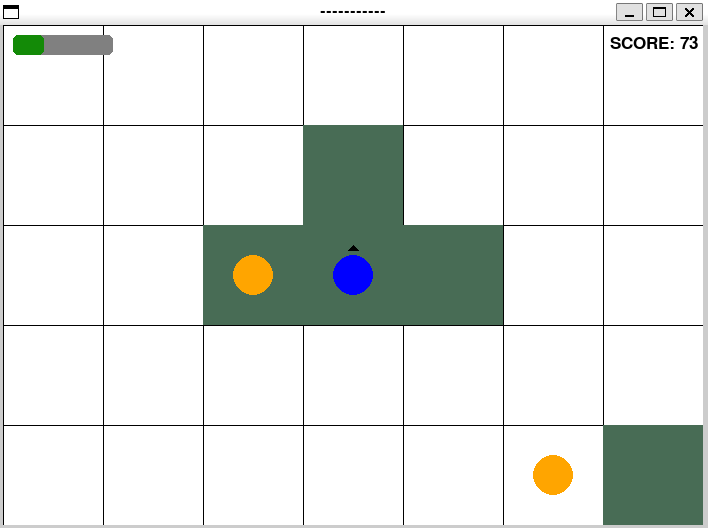
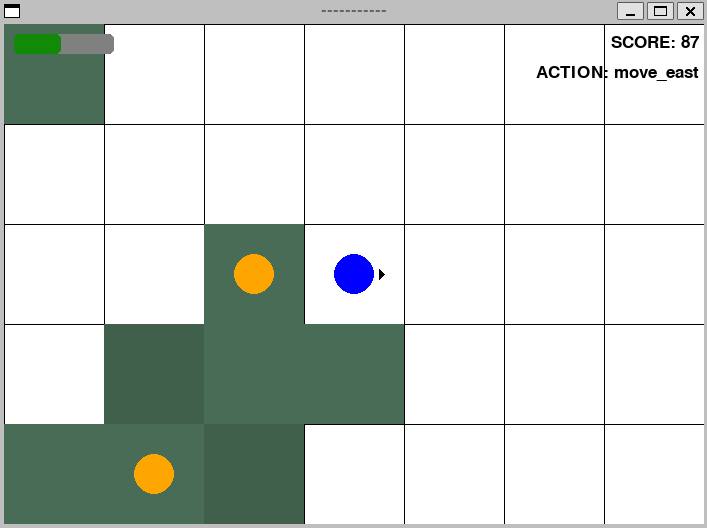
interface updates

diff --git a/code/visualisation.py b/code/visualisation.py
@@ -94,7 +94,7 @@ def draw_shadow(action, cells, players ):
 
     
 
-def draw_players(cells, players ):
+def draw_players(cells, players, action ):
     #draw circle in the middle of the cell
     # for i in range(len(env)):
     #     player = env[i]
@@ -152,6 +152,7 @@ def draw_players(cells, players ):
     p_xp = players[0][3]
     draw_life(p_life)
     draw_score(p_xp)
+    draw_action(action)
 
 
                  
@@ -168,11 +169,27 @@ def draw_life(life):
     pass
 
 def draw_score(score):
-
     socre_text = SCORE_FONT.render(
         "SCORE: " + str(score), 1, BLACK)
     WIN.blit(socre_text, (WIDTH - socre_text.get_width() - 5, 10))
 
+def draw_action(action):
+    actions = [
+            "move_south",
+            "move_north",
+            "move_east",
+            "move_west",
+            "collect",
+            "commit",
+            "seed",
+            "attack",
+            "kill",
+            "flee",
+            "share",
+        ]
+    action_text = SCORE_FONT.render(
+        "ACTION: " + actions[action], 1, BLACK)
+    WIN.blit(action_text, (WIDTH - action_text.get_width() - 5, 40))
 
 def get_game_records_files( dir_name):
     experience_dir  = os.path.join("..", "models",dir_name )
@@ -218,11 +235,11 @@ def process_line(line):
     players = current_arr[V_CELL_NUM*H_CELL_NUM:len(current_arr)-1].reshape(4,4)
     remaining_moves = current_arr[len(current_arr)-1]
 
-    print(cells)
-    print(players)
-    print(remaining_moves)
-    print()
-    print()
+    # print(cells)
+    # print(players)
+    # print(remaining_moves)
+    # print()
+    # print()
     
     return id, past_arr, action, cells, players, remaining_moves
 
@@ -231,8 +248,9 @@ def draw_window(cells, players , action):
 
     draw_grid()
 
-    draw_players(cells, players )
+    draw_players(cells, players, action )
     draw_shadow(action, cells, players )
+
 
 
 
@@ -267,13 +285,13 @@ def main():
     while run:
         if not pause:
             # pygame.time.wait(1000)
-            clock.tick(1)
+            clock.tick(5)
             # print(pygame.display.get_desktop_sizes())
             file_index, index, line = next_line( files, exp_dir, PLAYER_NUM, index, file_index, lines)
 
             if line is None:
                 print("end of files")
-                pygame.time.wait(10000)
+                pygame.time.wait(1000)
 
                 break
             # print(line)
